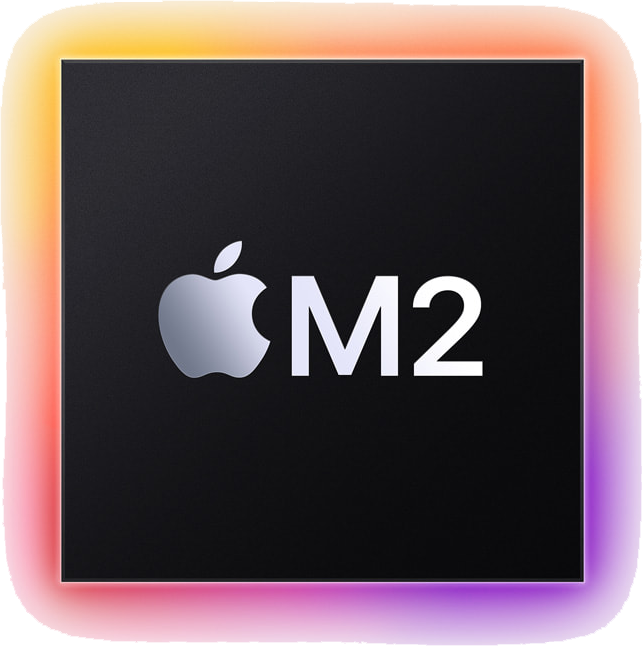
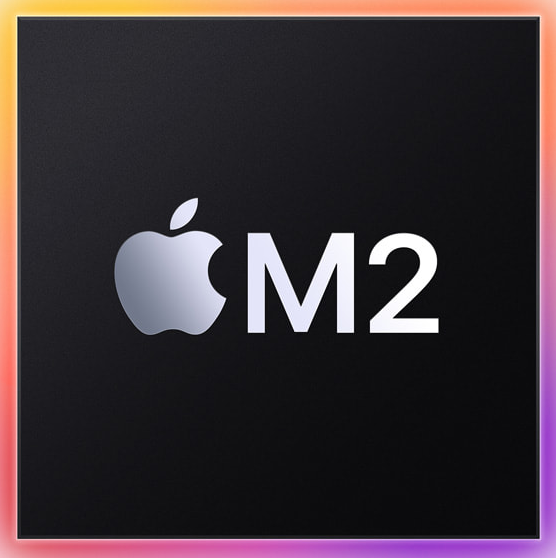
Concluid session three

diff --git a/styles.css b/styles.css
@@ -128,6 +128,8 @@ html, body {
     margin: 1rem 0;
     font-weight: 100;
     font-size: 2rem;
+    display: flex;
+    align-items: center;
 }
 
 .flexOne img {
@@ -216,3 +218,58 @@ html, body {
 
 */
 
+.sessionThree {
+    background: url(./assets/macbookProBig.jpeg) no-repeat center center; 
+    -webkit-background-size: cover;
+    -moz-background-size: cover;
+    -o-background-size: cover;
+    background-size: cover;
+    margin-top: 1rem;
+    width: 100%;
+}
+
+.headerThree {
+    width: 100%;
+    display: flex;
+    flex-flow: column wrap;
+    justify-content: center;
+    align-items: center;
+    margin-top: 4rem;
+    margin-bottom: 20rem;
+    color: #FFFFFF;
+}
+
+.headerThree h1 {
+    font-size: 3.5rem;
+}
+
+.flexThree {
+    display: flex;
+    align-items: center;
+}
+
+.flexThree h2 {
+    margin: 1rem 0;
+    font-weight: 100;
+    font-size: 2rem;
+    display: flex;
+    align-items: center;
+}
+
+.flexThree img {
+    margin-left: 0.5rem;
+}
+
+.linksThree {
+    display: flex;
+}
+
+.linksThree h3{
+    color: #3082D5;
+    font-weight: 100;
+}
+
+.linksThree h3:hover {
+    text-decoration: underline;
+    cursor: pointer;
+}

diff --git a/index.html b/index.html
@@ -73,7 +73,7 @@
             <header class="headerThree">
                 <h1>Macbook Pro 13 pol.</h1>
                 <article class="flexThree">
-                    <h2>Com Potencia do </h2>
+                    <h2>Com Potencia do <img src="./assets/AppleM2Pro.png" class="m2"></h2>
                 </article>
                 
                 <article class="linksThree">
